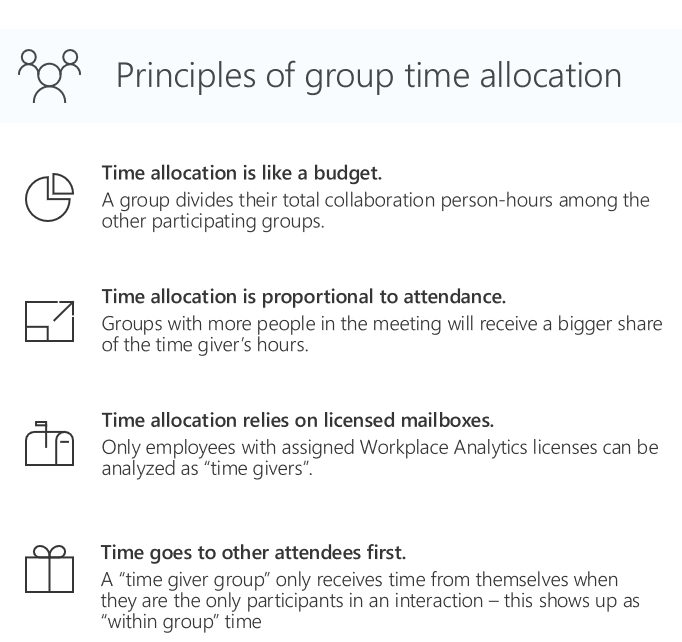
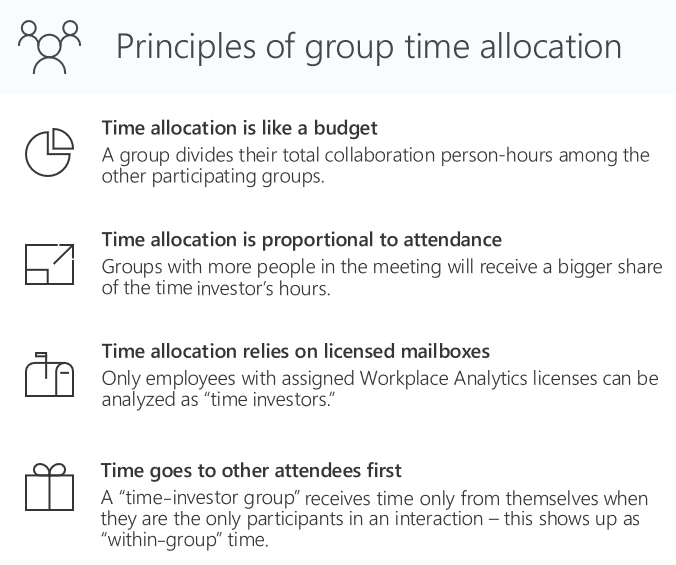
try new table in user roles

diff --git a/WorkplaceAnalytics/Tutorials/Group-queries.md b/WorkplaceAnalytics/Tutorials/Group-queries.md
@@ -17,28 +17,28 @@ Workplace Analytics group queries give results that help you understand how a te
 
 ![Group A allocates time to Group B](../Images/WpA/tutorials/Group-query1.png) 
 
-## Brief overview of time allocation
+## Overview of time allocation
 
-The details of time allocation are complicated. You can learn more details in the time allocation tutorial, which explains the logic and works through several examples. Here are the basic concepts: 
+An understanding of time allocation helps you create better group queries. The details of time allocation are complicated. Here is a summary of the basic concepts: 
 
-Time allocation measures how groups spent their time. For each meeting and email, the total time that one group spends on an interaction (email or meeting) must divided up among the other participating groups.
+ * Time allocation measures how groups spent their time. For each interaction (a meeting attended or an email sent or received), the total time that one group spent on the interaction is divided among the other groups that participated.
+ * A "time investor" allocates their time among the other participants in the interaction (the "collaborators") in proportion to how many people are in the collaborator group for that interaction.
+ * A group query can analyze time allocation only for employees in the population of measured employees, namely those who are licensed for Workplace Analytics. People who do not have a license for Workplace Analytics can appear as collaborators, but never as time investors.
+ * The time-allocation approach assumes that a time-investor group allocates time only to themselves if no other groups are participating in the meeting or email.
 
-A "time investor" allocates their time among the other participants in an interaction in proportion how many people are in the "collaborator" group for that interaction.
-
-A group query can analyze time allocation only for employees in the population of measured employees, namely those who are licensed for Workplace Analytics. People who do not have a license for Workplace Analytics can appear as collaborators, but never as time investors.
-
-The time-allocation approach assumes that a time-investor group allocates time only to themselves if no other groups are participating in the meeting or email.
+The following illustration depicts these concepts: 
 
  ![Principles of time allocation](../Images/WpA/Tutorials/principals-of-time-allocation.png)
+
+> [!Note]  
+> For more information, see the time allocation tutorial<!-- NEED LINK TO THIS!! -->, which explains the logic and works through several examples. 
 
 ## Create a group query 
 
 While setting up a group query differs from setting up meeting or person queries, the options for time-period aggregation, time range, and meeting-exclusion rules are the same as for meeting and person queries.
 
 But a group requires that you choose a grouping attribute for Group A (the time investors) …
-… and for Group B (the collaborators). 
-
-For example, you could examine how senior leaders allocated time across different organizations by setting Group A to “level” and Group B to “organization.”
+… and for Group B (the collaborators). For example, you could examine how senior leaders allocated time across different organizations by setting Group A to “level” and Group B to “organization.”
 
 ![Create group query](../Images/WpA/tutorials/Group-query2.png)
 

diff --git a/WorkplaceAnalytics/Use/User-Roles.md b/WorkplaceAnalytics/Use/User-Roles.md
@@ -26,3 +26,14 @@ These are the Workplace Analytics roles and the level of access:
 
 **Administrator role:** Access to Admin and Data Sources features. This role is used for the Workplace Analytics administrator to set system defaults, privacy settings, upload, and verify organizational data.
 
+### Has access to the following pages on the tool
+
+| Role | Page | ---- | ---- | ---- | ---- |
+| ---- | ---- | ---- | ---- | ---- | ---- |
+| ---- | **Home page** | **Settings:** <ol><li>Set system defaults</li><li>Set privacy settings</li></ol> | **Sources:** Helps to verify that the O365 data and organizational data has been loaded properly and is available for analysis | **Explore:** A series of dashboards designed to give you a quick view into the way your organization collaborates | **Queries:** Deeper exploration of the data through a custom querying tool |
+| WpA Administrator     | | <img src="../Images/WpA/check-mark.png" alt="check mark"> | <img src="../Images/WpA/check-mark.png" alt="check mark"> | | |
+| WpA Analyst	        | <img src="../Images/WpA/check-mark.png" alt="check mark"> | | <img src="../Images/WpA/check-mark.png" alt="check mark"> | <img src="../Images/WpA/check-mark.png" alt="check mark"> | <img src="../Images/WpA/check-mark.png" alt="check mark"> |
+| WpA Limited Analyst	| <img src="../Images/WpA/check-mark.png" alt="check mark"> | | | <img src="../Images/WpA/check-mark.png" alt="check mark"> | |
+	
+
+
